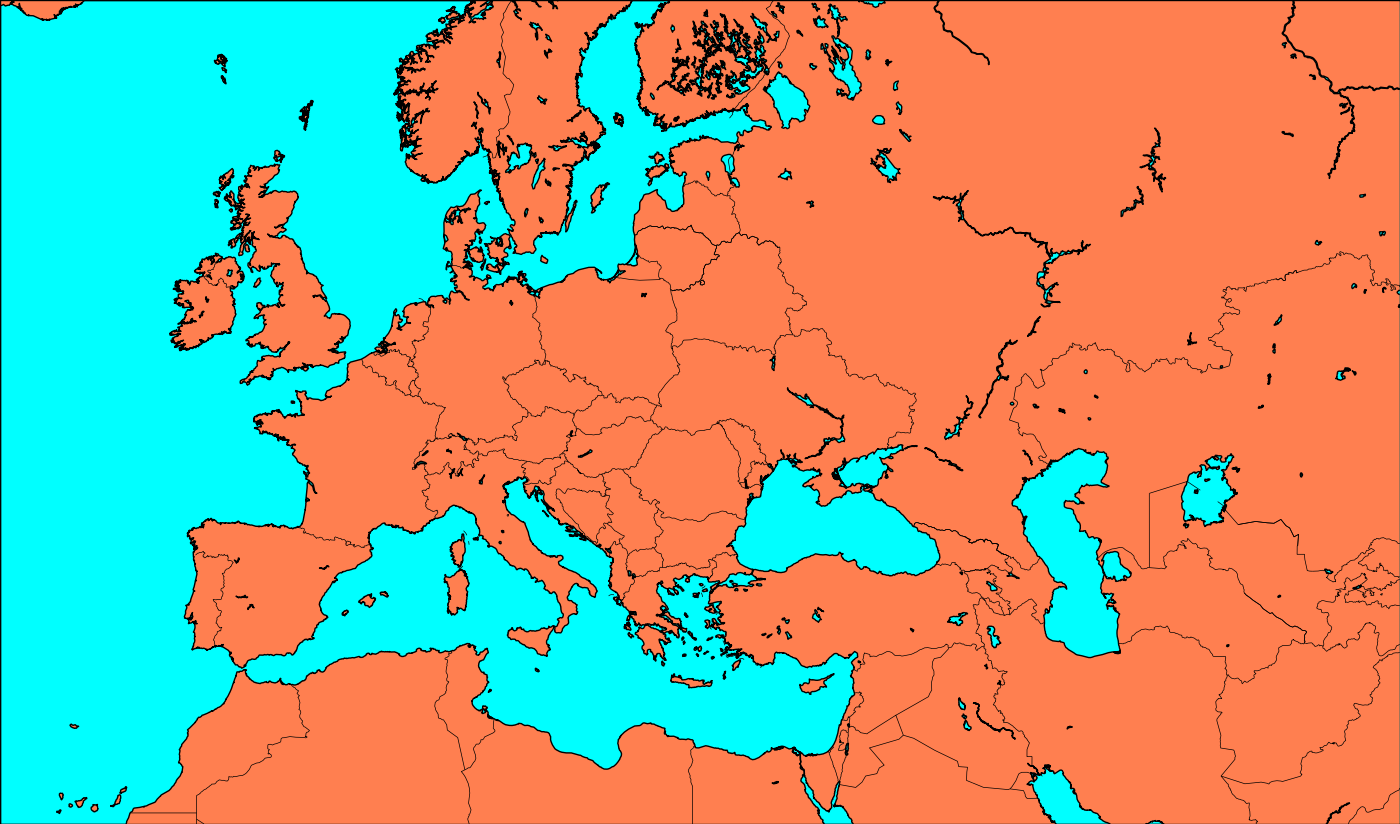
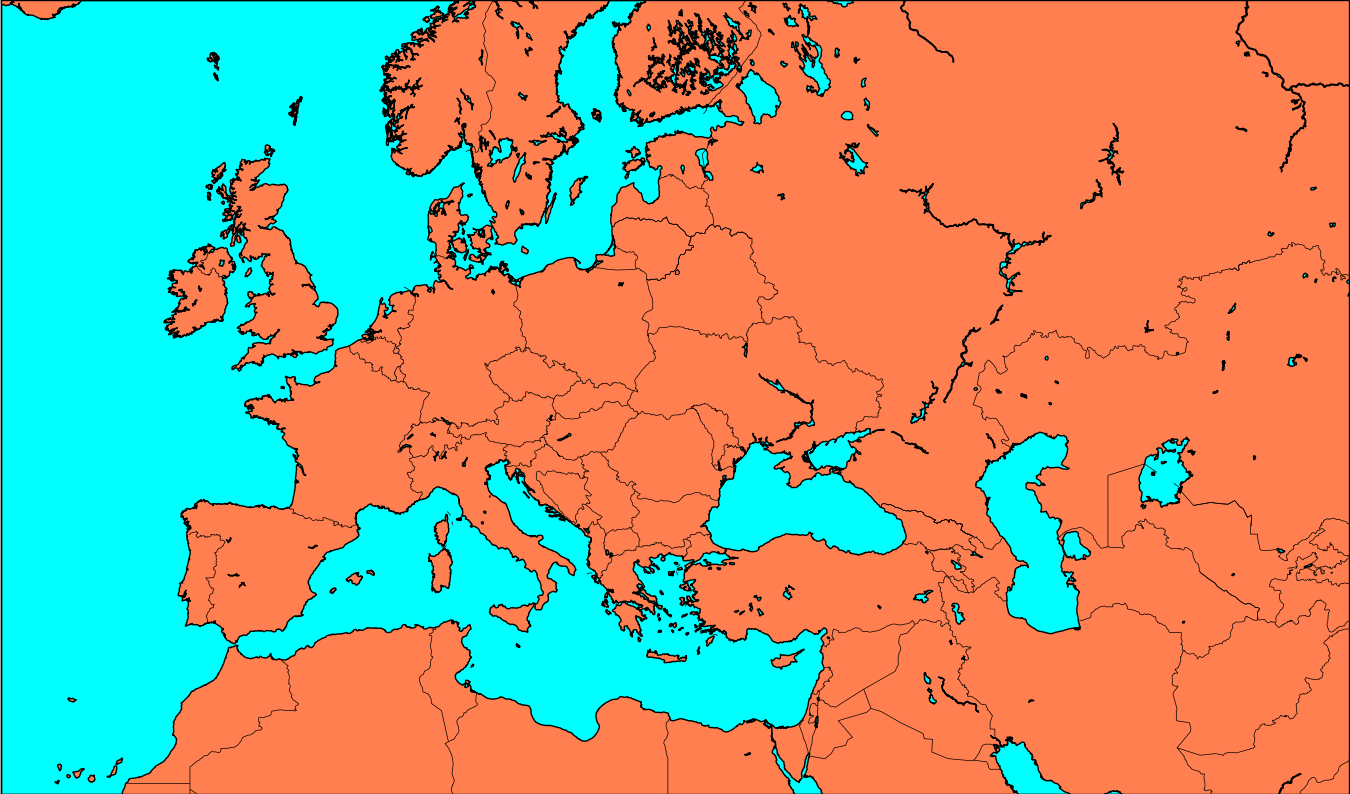
tweaks

diff --git a/client/client.js b/client/client.js
@@ -53,16 +53,16 @@ const drawMap = (room) => {
     ctx.fillStyle = 'black';
     ctx.fillText('Choose a map to play on and the', 700, 310);
     ctx.fillText('target cities will show up here', 700, 350);
-    canvas_arrow(ctx, 1200, 340, 1350, 220);
+    canvas_arrow(ctx, 1200, 340, canvas.width - 20, 220);
 
     ctx.fillText('See how everyone did and', 800, 590);
     ctx.fillText('learn about the cities here', 800, 625);
-    canvas_arrow(ctx, 1100, 650, 1300, 800);
+    canvas_arrow(ctx, 1100, 650, canvas.width - 70, canvas.height - 20);
 
     ctx.fillText('Map will appear in this box', 100, 310);
 
     ctx.fillText('Discuss here', 100, 610);
-    canvas_arrow(ctx, 200, 650, 200, 800);
+    canvas_arrow(ctx, 200, 650, 200, canvas.height-20);
 
   }
   else if (room == CONSTANTS.WORLD){
@@ -161,54 +161,61 @@ document.addEventListener("touchend", touchUpHandler, false);
 /** PANEL HANDLING */
 const panel = window.document.getElementById('panel');
 const panel_ctx = panel.getContext('2d');
-
+const info_x = panel.width*20/600;
+const buttons_height = panel.height*50/824;
+const buttons_width = panel.width*275/600;
+const buttons_font = buttons_height*0.5;
+const buttons_spacing = 5;
+const info_big_font = panel.height*30/824;
+const info_little_font = panel.height*20/824;
+const info_spacing = info_big_font + 10;
 const ready_button = {
-    x:90,
-    y:150,
-    width:215,
-    height:50
+    x:info_x,
+    y:80 + buttons_height + buttons_spacing,
+    width:buttons_width,
+    height:buttons_height
 };
 const world_button = {
-    x:20,
+    x:info_x,
     y:80,
-    width:270,
-    height:50
+    width:buttons_width,
+    height:buttons_height
 };
 const us_button = {
-    x:20,
-    y:140,
-    width:270,
-    height:50
+    x:info_x,
+    y:80 + buttons_height + buttons_spacing,
+    width:buttons_width,
+    height:buttons_height
 };
 const euro_button = {
-    x:20,
-    y:200,
-    width:270,
-    height:50
+    x:info_x,
+    y:80 + 2*(buttons_height + buttons_spacing),
+    width:buttons_width,
+    height:buttons_height
 };
 const timer_window = {
     x: 10,
     y: 5,
-    width: 50,
-    height: 50
+    width: buttons_height,
+    height: buttons_height
 };
 const lobby_button = {
-    x: 400,
-    y: 210,
-    width: 170,
-    height: 50
+    x: panel.width*400/600,
+    y: panel.height*210/824,
+    width: panel.width*175/600,
+    height: buttons_height
 };
 const round_window = {
-    x: 450,
+    x: panel.width*440/600,
     y: 40,
-    width: 160,
+    width: (panel.width-30)*160/600,
     height: 40
 };
 const info_window = {
-    x: 20,
+    x: info_x,
     y: 80,
-    width: 600,
-    height: 180
+    width: panel.width - 30,
+    height: panel.height*180/824
 }
 const time_descrip_window = {
     x: 70,
@@ -219,7 +226,7 @@ const time_descrip_window = {
 const scoreboard_window = {
     x: 0,
     y: panel.height/3,
-    width: panel.width,
+    width: panel.width-15,
     height: 2*panel.height/3
 };
 
@@ -227,7 +234,7 @@ function postTime(time, color) {
     panel_ctx.fillStyle = color;
     panel_ctx.clearRect(timer_window['x'], timer_window['y'], timer_window['width'], timer_window['height']);
     panel_ctx.fillRect(timer_window['x'], timer_window['y'], timer_window['width'], timer_window['height']);
-    panel_ctx.font = "30px Arial";
+    panel_ctx.font = info_big_font + "px Arial";
     panel_ctx.fillStyle = "black";
     panel_ctx.fillText(Math.max(time,0), timer_window['x']+5,timer_window['y'] + 33);
 }
@@ -241,13 +248,13 @@ function postTimeDescrip(info) {
 }
 
 function postScore(rank, name, color, score, wins, you) {
-    panel_ctx.font = "30px Arial";
+    panel_ctx.font = info_big_font + "px Arial";
     panel_ctx.fillStyle = color;
     panel_ctx.fillText("Player " + name + ": " + score + '  (' + wins + ' wins)' + you, scoreboard_window['x'] + 80, scoreboard_window['y'] + 85 + rank * 40 )
 }
 
 function postReady(rank) {
-    panel_ctx.font = "30px Arial";
+    panel_ctx.font = info_big_font + "px Arial";
     panel_ctx.fillStyle = "green";
     panel_ctx.fillText("RDY", scoreboard_window['x'] + 5, scoreboard_window['y'] + 85 + rank * 40 )
 }
@@ -259,19 +266,19 @@ function postLobby() {
 
     panel_ctx.fillStyle = CONSTANTS.MAP_BUTTON_COLOR;
     panel_ctx.fillRect(world_button['x'], world_button['y'], world_button['width'], world_button['height']);
-    panel_ctx.font = "25px Arial";
+    panel_ctx.font = buttons_font + "px Arial";
     panel_ctx.fillStyle = 'black';
     panel_ctx.fillText(CONSTANTS.WORLD + '  (' + world_count + ' players)', world_button['x'] + 5, world_button['y'] + 28)
 
     panel_ctx.fillStyle = CONSTANTS.MAP_BUTTON_COLOR;
     panel_ctx.fillRect(us_button['x'], us_button['y'], us_button['width'], us_button['height']);
-    panel_ctx.font = "25px Arial";
+    panel_ctx.font = buttons_font + "px Arial";
     panel_ctx.fillStyle = 'black';
     panel_ctx.fillText(CONSTANTS.US + ' (' + us_count + ' players)', us_button['x'] + 5, us_button['y'] + 28)
 
     panel_ctx.fillStyle = CONSTANTS.MAP_BUTTON_COLOR;
     panel_ctx.fillRect(euro_button['x'], euro_button['y'], euro_button['width'], euro_button['height']);
-    panel_ctx.font = "25px Arial";
+    panel_ctx.font = buttons_font + "px Arial";
     panel_ctx.fillStyle = 'black';
     panel_ctx.fillText(CONSTANTS.EURO + '  (' + euro_count + ' players)', euro_button['x'] + 5, euro_button['y'] + 28)
 
@@ -282,32 +289,32 @@ function postInfo(info1, info2, button, capital) {
     panel_ctx.fillStyle = CONSTANTS.BGCOLOR;
     panel_ctx.fillRect(info_window['x'], info_window['y'], info_window['width'], info_window['height']);
 
-    panel_ctx.font = "30px Arial";
+    panel_ctx.font = info_big_font + "px Arial";
     panel_ctx.fillStyle = "black";
     panel_ctx.fillText(info1, info_window['x'] + 5, info_window['y'] + 28)
 
     if (info2.length < CONSTANTS.LONGCITY) {
-        panel_ctx.font = "30px Arial";
+        panel_ctx.font = info_big_font + "px Arial";
     }
     else {
-        panel_ctx.font = "20px Arial";
+        panel_ctx.font = info_little_font + "px Arial";
     }
 
     panel_ctx.fillStyle = "black";
-    panel_ctx.fillText(info2, info_window['x'] + 5, info_window['y'] + 86)
+    panel_ctx.fillText(info2, info_window['x'] + 5, info_window['y'] + 26 + info_spacing)
 
     if (button) {
         panel_ctx.fillStyle = "orange";
         panel_ctx.fillRect(ready_button['x'], ready_button['y'], ready_button['width'], ready_button['height']);
-        panel_ctx.font = "25px Arial";
+        panel_ctx.font = buttons_font + "px Arial";
         panel_ctx.fillStyle = 'black';
         panel_ctx.fillText('CLICK IF READY!', ready_button['x'] + 5, ready_button['y'] + 28)
     }
 
     if (capital != "") {
-        panel_ctx.font = "25px Arial";
+        panel_ctx.font = info_big_font + "px Arial";
         panel_ctx.fillStyle = "black";
-        panel_ctx.fillText(capital, info_window['x'] + 15, info_window['y'] + 146)
+        panel_ctx.fillText(capital, info_window['x'] + 15, info_window['y'] + 26 + 2*info_spacing)
     }
 }
 
@@ -322,7 +329,7 @@ socket.on('clear scores', () => {
     if (myRoom != CONSTANTS.LOBBY) {
         panel_ctx.fillStyle = CONSTANTS.MAP_BUTTON_COLOR;
         panel_ctx.fillRect(lobby_button['x'], lobby_button['y'], lobby_button['width'], lobby_button['height']);
-        panel_ctx.font = "25px Arial";
+        panel_ctx.font = buttons_font + "px Arial";
         panel_ctx.fillStyle = 'black';
         panel_ctx.fillText('Back to Lobby', lobby_button['x'] + 5, lobby_button['y'] + 28)
     }
@@ -338,7 +345,7 @@ socket.on('draw round', (round) => {
     panel_ctx.clearRect(round_window['x'], round_window['y'], round_window['width'], round_window['height']);
     panel_ctx.fillStyle = CONSTANTS.BGCOLOR;
     panel_ctx.fillRect(round_window['x'], round_window['y'], round_window['width'], round_window['height']);
-    panel_ctx.font = "25px Arial";
+    panel_ctx.font = panel.height*25/824 + "px Arial";
     panel_ctx.fillStyle = "black";
     panel_ctx.fillText('Round ' + round + '/' + CONSTANTS.GAME_ROUNDS, round_window['x']+2,round_window['y'] + 25);
 

diff --git a/index.html b/index.html
@@ -12,24 +12,23 @@
   </head>
   <body>
 <!--  <body bgcolor="#E6E6FA">-->
-  <div style="background:#E6E6FA;border:1px solid black;width:2040px;margin-left:20px;margin-top:20px;margin-bottom:20px;margin-right:20px">
+  <div style="background:#E6E6FA;border:1px solid black;width:1900px;margin-left:0px;margin-top:0px;margin-bottom:0px;margin-right:0px">
       <div id='container'>
           <table>
               <tr>
                  <th colspan='3'>
-                     <h1><font size="48px">GeoScents</font><br
-                     <h3>An online multiplayer world geography game!</h3><br></h1>
+                     <h1><font >GeoScents</font><br>
                   </th>
               </tr>
               <tr>
                   <td>
                       <div>
-                          <canvas id="map" width="1400" height="824"></canvas>
+                          <canvas id="map" width="1350" height="794"></canvas>
                        </div>
                   </td>
                   <td>
                        <div>
-                          <canvas id="panel" width="600" height="824"></canvas>
+                          <canvas id="panel" width="550" height="794"></canvas>
                        </div>
                   </td>
               </tr>
@@ -39,7 +38,7 @@
                   <td align="left" height="400">
 <!--                      https://itnext.io/creating-a-chat-with-node-js-from-the-scratch-707896d64593-->
                      <form id="chat">
-                     <input type="text" id="msg_text" name="msg_text" style="width: 1000px;" />
+                     <input type="text" id="msg_text" name="msg_text" style="width: 800px;" />
                      <input type="submit" value="Send!" />
                      </form>
                                          <script type="text/javascript" src="https://code.jquery.com/jquery-3.3.1.min.js"></script>
@@ -54,12 +53,12 @@
                        });
                      });
                      </script>
-                     <div id="history" style="overflow:auto;width:1200px;height:750px;background:#ffffff;border:1px dotted black;text-align:left"></div>
+                     <div id="history" style="overflow:auto;width:1050px;height:350px;background:#ffffff;border:1px dotted black;text-align:left"></div>
 
                   </td>
                   <td>
                       <h2>GAME HISTORY:</h2>
-                      <div id="gamehist" style="overflow:auto;width:800px;height:750px;background:#f4fce0;border:1px dotted black;text-align:left"></div>
+                      <div id="gamehist" style="overflow:auto;width:800px;height:350px;background:#f4fce0;border:1px dotted black;text-align:left"></div>
                   </td>
               </tr>
               <tr>

diff --git a/server/app.js b/server/app.js
@@ -6,7 +6,7 @@ const path = require('path');
 const morgan = require('morgan');
 const bodyParser = require('body-parser');
 const app = express();
-const PORT = 80;
+const PORT = 6001;
 const http = require('http');
 const server = http.createServer(app);
 const io = require('socket.io')(server);
@@ -14,6 +14,20 @@ const fs = require('fs');
 
 // Game mechanics
 const CONSTANTS = require('../resources/constants.js');
+
+
+function log(payload) {
+    const currentdate = new Date();
+    const timestamp = currentdate.getDate() + "/"
+        + (currentdate.getMonth() + 1) + "/"
+        + currentdate.getFullYear() + " @ "
+        + currentdate.getHours() + ":"
+        + currentdate.getMinutes() + ":";
+    // fs.appendFile('/root/connections.log', "[" + timestamp + "] " + payload + "\n", function (err) {
+    //     if (err) throw err;
+    //     console.log('Saved!');
+    // });
+}
 
 app.use(morgan('dev'));
 
@@ -71,18 +85,6 @@ const WELCOME_MESSAGE1 = 'This is an unabashed attempt at recreating the similar
                           'running!  Feel free to play with the code on github and make pull requests if you want.' +
                           ' If this text is double-spaced or things don\'t look right, try refreshing the page!';
 
-function log(payload) {
-    const currentdate = new Date();
-    const timestamp = currentdate.getDate() + "/"
-        + (currentdate.getMonth() + 1) + "/"
-        + currentdate.getFullYear() + " @ "
-        + currentdate.getHours() + ":"
-        + currentdate.getMinutes() + ":";
-    fs.appendFile('/root/connections.log', "[" + timestamp + "] " + payload + "\n", function (err) {
-        if (err) throw err;
-        console.log('Saved!');
-    });
-}
 
 io.on('connection', (socket) => {
 	console.log('a user connected:', socket.id);

diff --git a/resources/constants.js b/resources/constants.js
@@ -5,10 +5,10 @@ module.exports = {
     TRUTH_COLOR: 'white',
 
     // Map and Panel
-    MAP_WIDTH: 1400,
-    MAP_HEIGHT: 824,
-    PANEL_WIDTH: 600,
-    PANEL_HEIGHT: 824,
+    MAP_WIDTH: 1350,
+    MAP_HEIGHT: 794,
+    PANEL_WIDTH: 550,
+    PANEL_HEIGHT: 794,
     WORLD_ZERO_LAT: 77.0*Math.PI/180, // Latitude of top edge of map
     WORLD_MAX_LAT: -65.0*Math.PI/180, // Latitude of bottom edge of map
     WORLD_MIN_LON: -180, // Latitude of top edge of map

diff --git a/resources/euro.py b/resources/euro.py
@@ -1,7 +1,7 @@
 from mpl_toolkits.basemap import Basemap
 import numpy as np
 import matplotlib.pyplot as plt
-plt.figure(figsize=(14,8.24))
+plt.figure(figsize=(13.5,7.94))
 plt.subplots_adjust(left=0.0, right=1.0, top=1.0, bottom=0)
 # llcrnrlat,llcrnrlon,urcrnrlat,urcrnrlon
 # are the lat/lon values of the lower left and upper right corners

diff --git a/resources/us.py b/resources/us.py
@@ -1,7 +1,7 @@
 from mpl_toolkits.basemap import Basemap
 import numpy as np
 import matplotlib.pyplot as plt
-plt.figure(figsize=(14,8.24))
+plt.figure(figsize=(13.5,7.94))
 plt.subplots_adjust(left=0.0, right=1.0, top=1.0, bottom=0)
 # llcrnrlat,llcrnrlon,urcrnrlat,urcrnrlon
 # are the lat/lon values of the lower left and upper right corners

diff --git a/resources/world.py b/resources/world.py
@@ -1,7 +1,7 @@
 from mpl_toolkits.basemap import Basemap
 import numpy as np
 import matplotlib.pyplot as plt
-plt.figure(figsize=(14,8.24))
+plt.figure(figsize=(13.5,7.94))
 plt.subplots_adjust(left=0.0, right=1.0, top=1.0, bottom=0)
 # llcrnrlat,llcrnrlon,urcrnrlat,urcrnrlon
 # are the lat/lon values of the lower left and upper right corners
